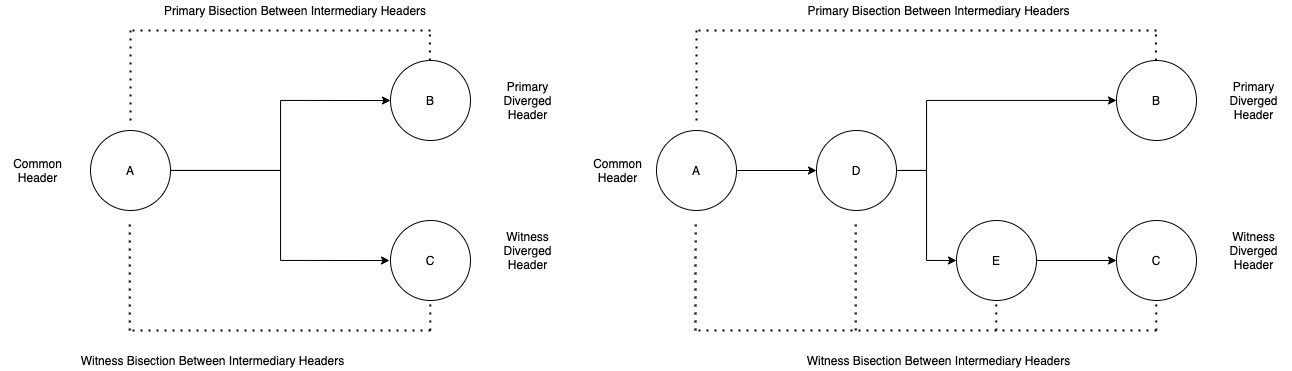
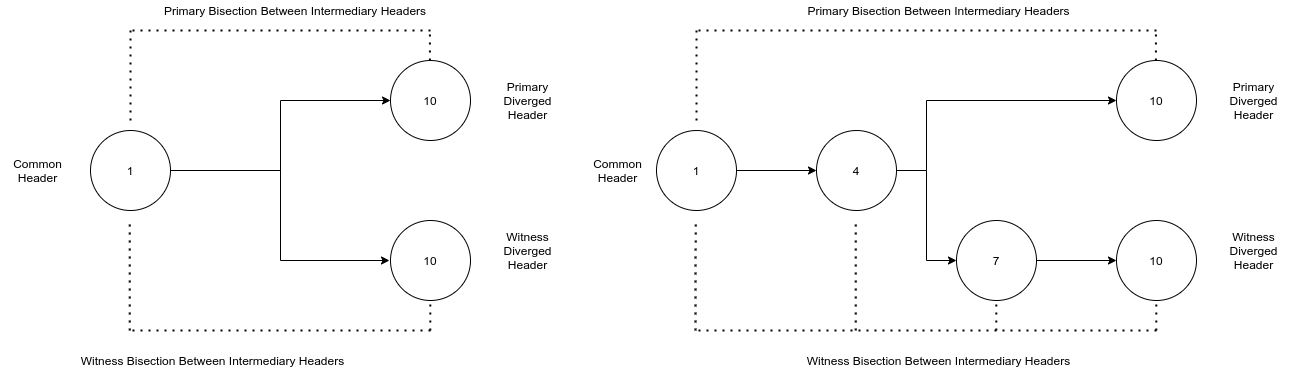
alter bifurcation schematic

diff --git a/docs/architecture/adr-047-handling-evidence-from-light-client.md b/docs/architecture/adr-047-handling-evidence-from-light-client.md
@@ -56,7 +56,7 @@ primary's header against any other header.
 
 The verification process of the light client will start from a trusted header and use a bisectional
 algorithm to verify up to a header at a given height. This becomes the verified header (does not 
-mean that it is trusted yet). All headers in between are cached and known as intermediary headers.
+mean that it is trusted yet). All headers that were verified in between are cached and known as intermediary headers.
 
 The light client's detector then takes the headers and runs the detect function.
 
@@ -118,11 +118,11 @@ is predominantly designed as a second layer to detect such an attack.
 
 Lunatic evidence has the following data structure:
 
-```go
+```golang
 type LunaticAttackEvidence struct {
 	SignedHeader          *SignedHeader
-	ValidatorSourceHeight int64
-	Timestamp             time.Time
+	CommonHeight          int64
+	Timestamp             time.Time //derived from the header of the common height
 }
 ```
 
@@ -132,7 +132,9 @@ the header that the light client trusted not the header where the attack actuall
 done because after the header that the light client trusted we can't be sure that the validators
 are still in the set and hence are still bonded. 
 
-`CheckForLunaticAttack(commonHeader, trustedHeader, divergedHeader *SignedHeader, commonValSet *ValidatorSet) (*Evidence, error)`
+```golang
+CheckForLunaticAttack(commonHeader, trustedHeader, divergedHeader *SignedHeader, commonValSet *ValidatorSet) (*Evidence, error)
+```
 
 A lunatic attack is leveraged from the common trusted header. This is the intermediary header that 
 came directly before the divergent headers and must contain a 1/3 overlap of validators.
